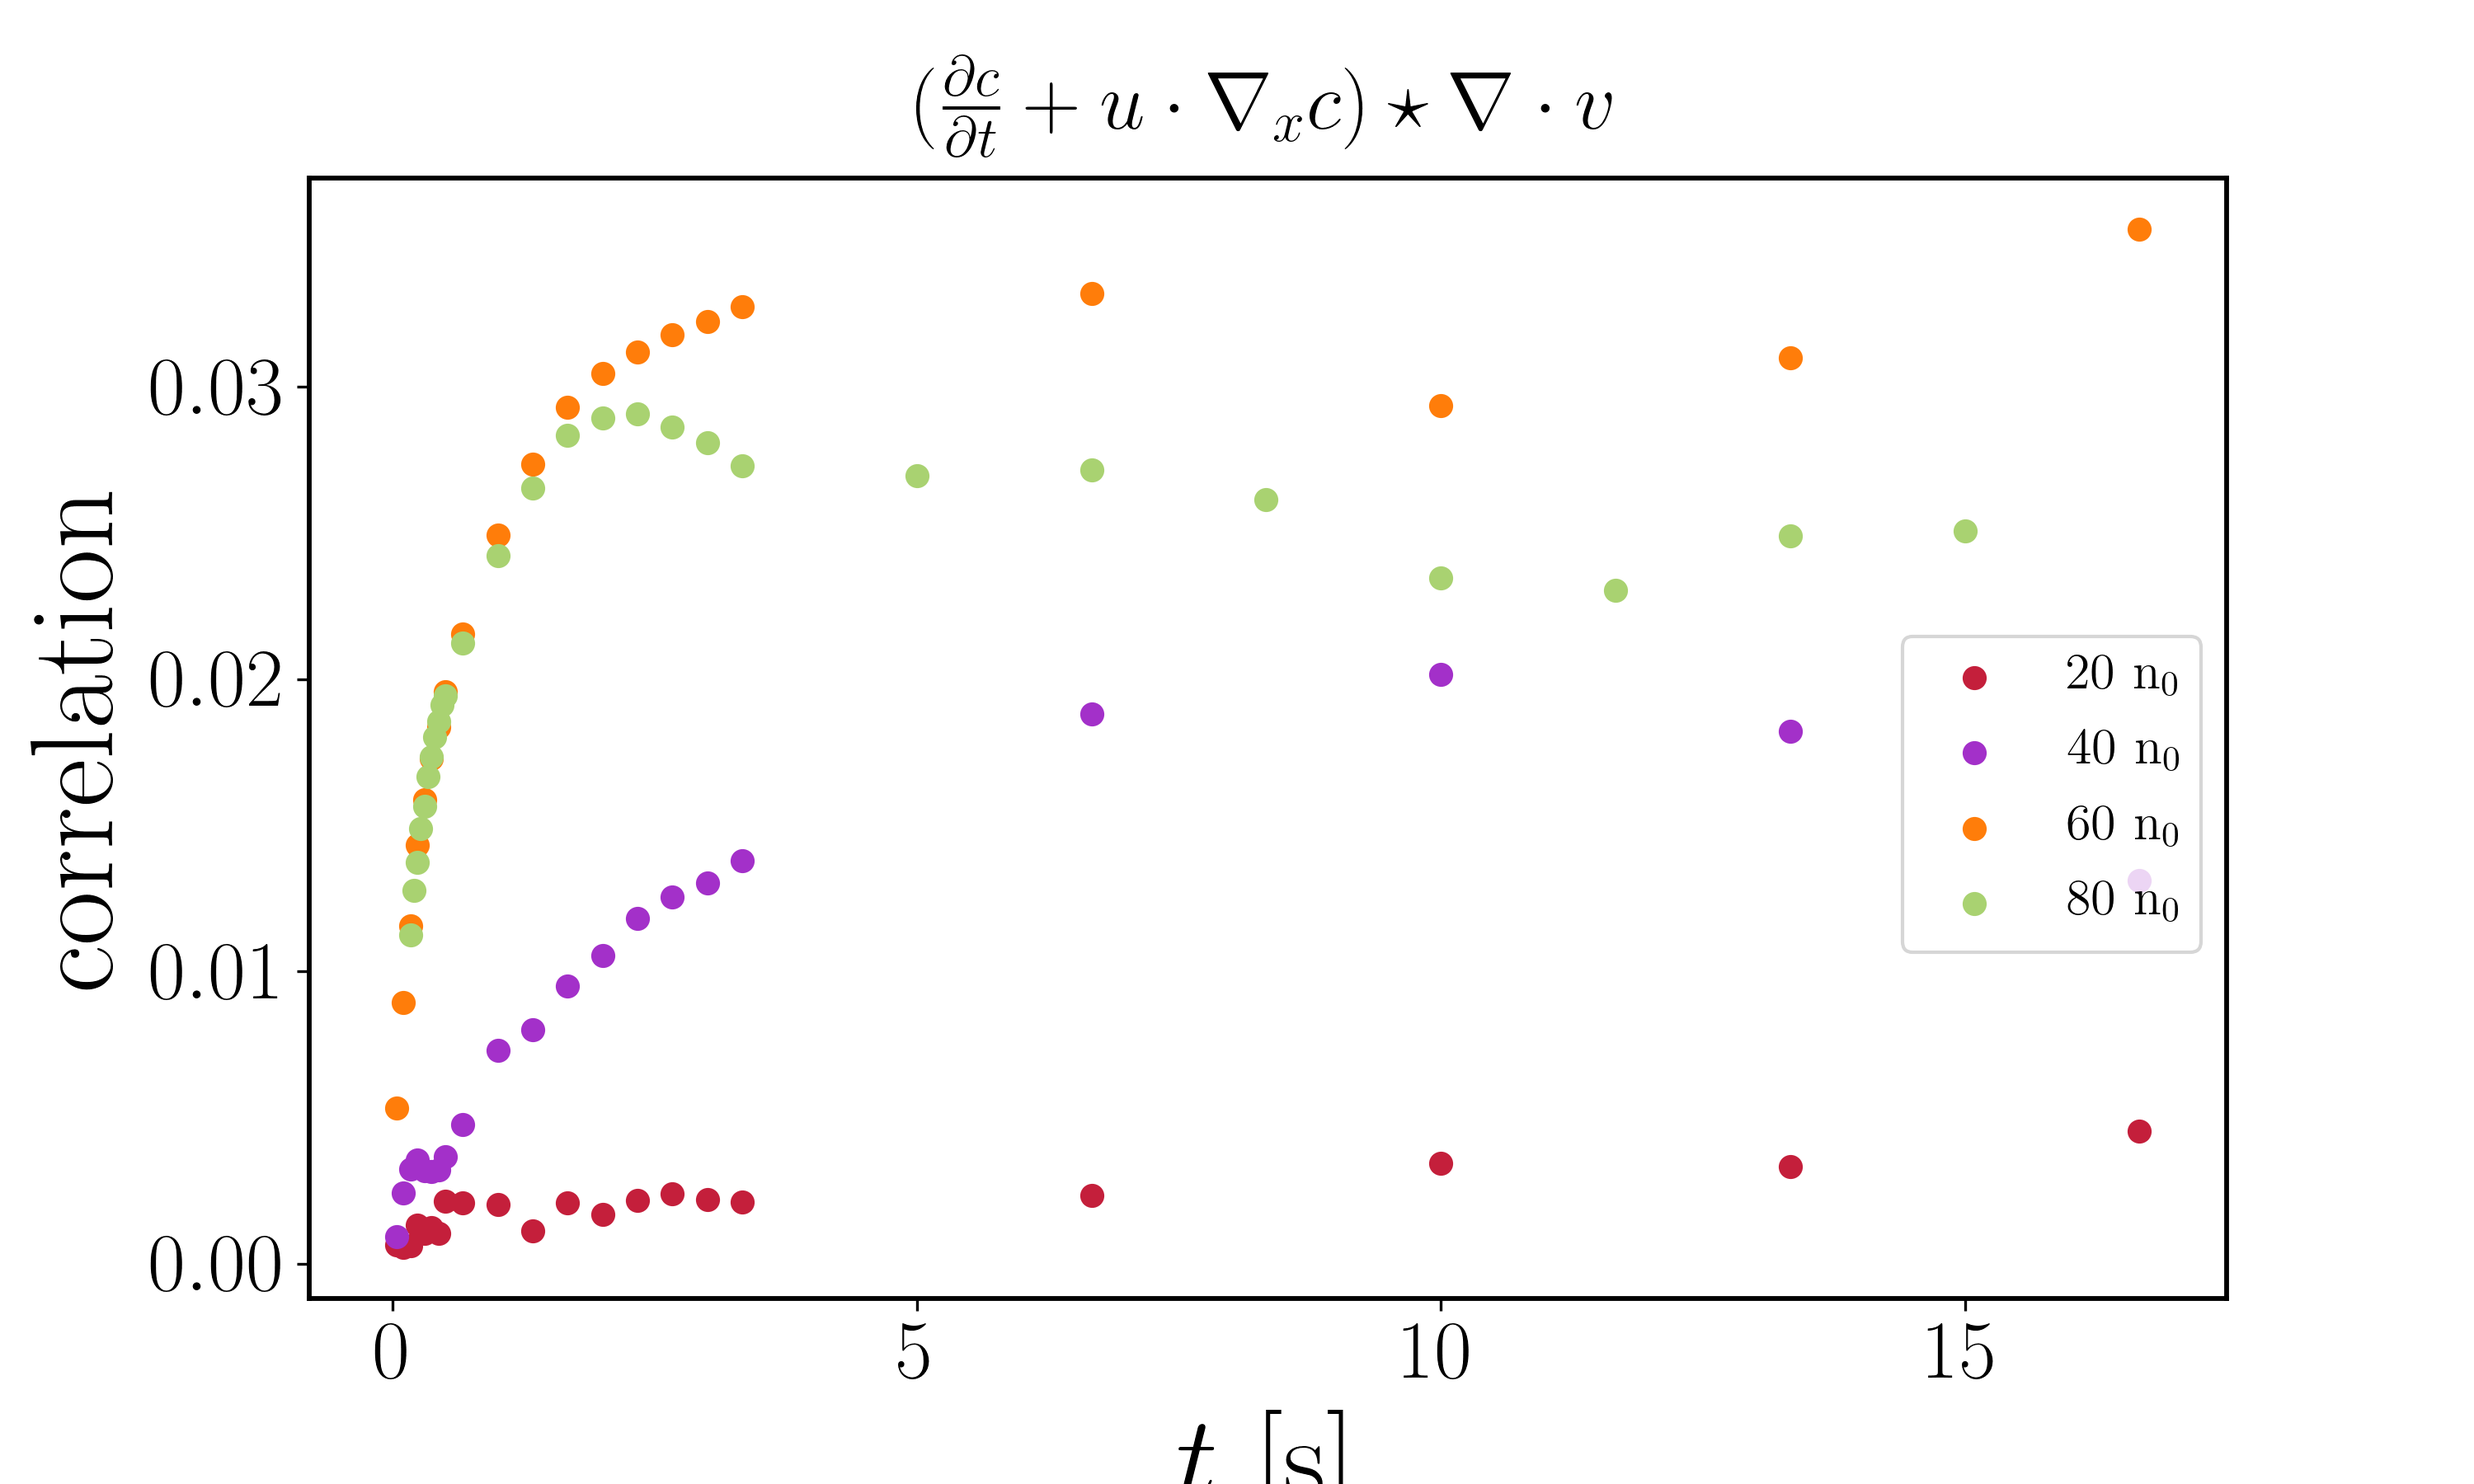
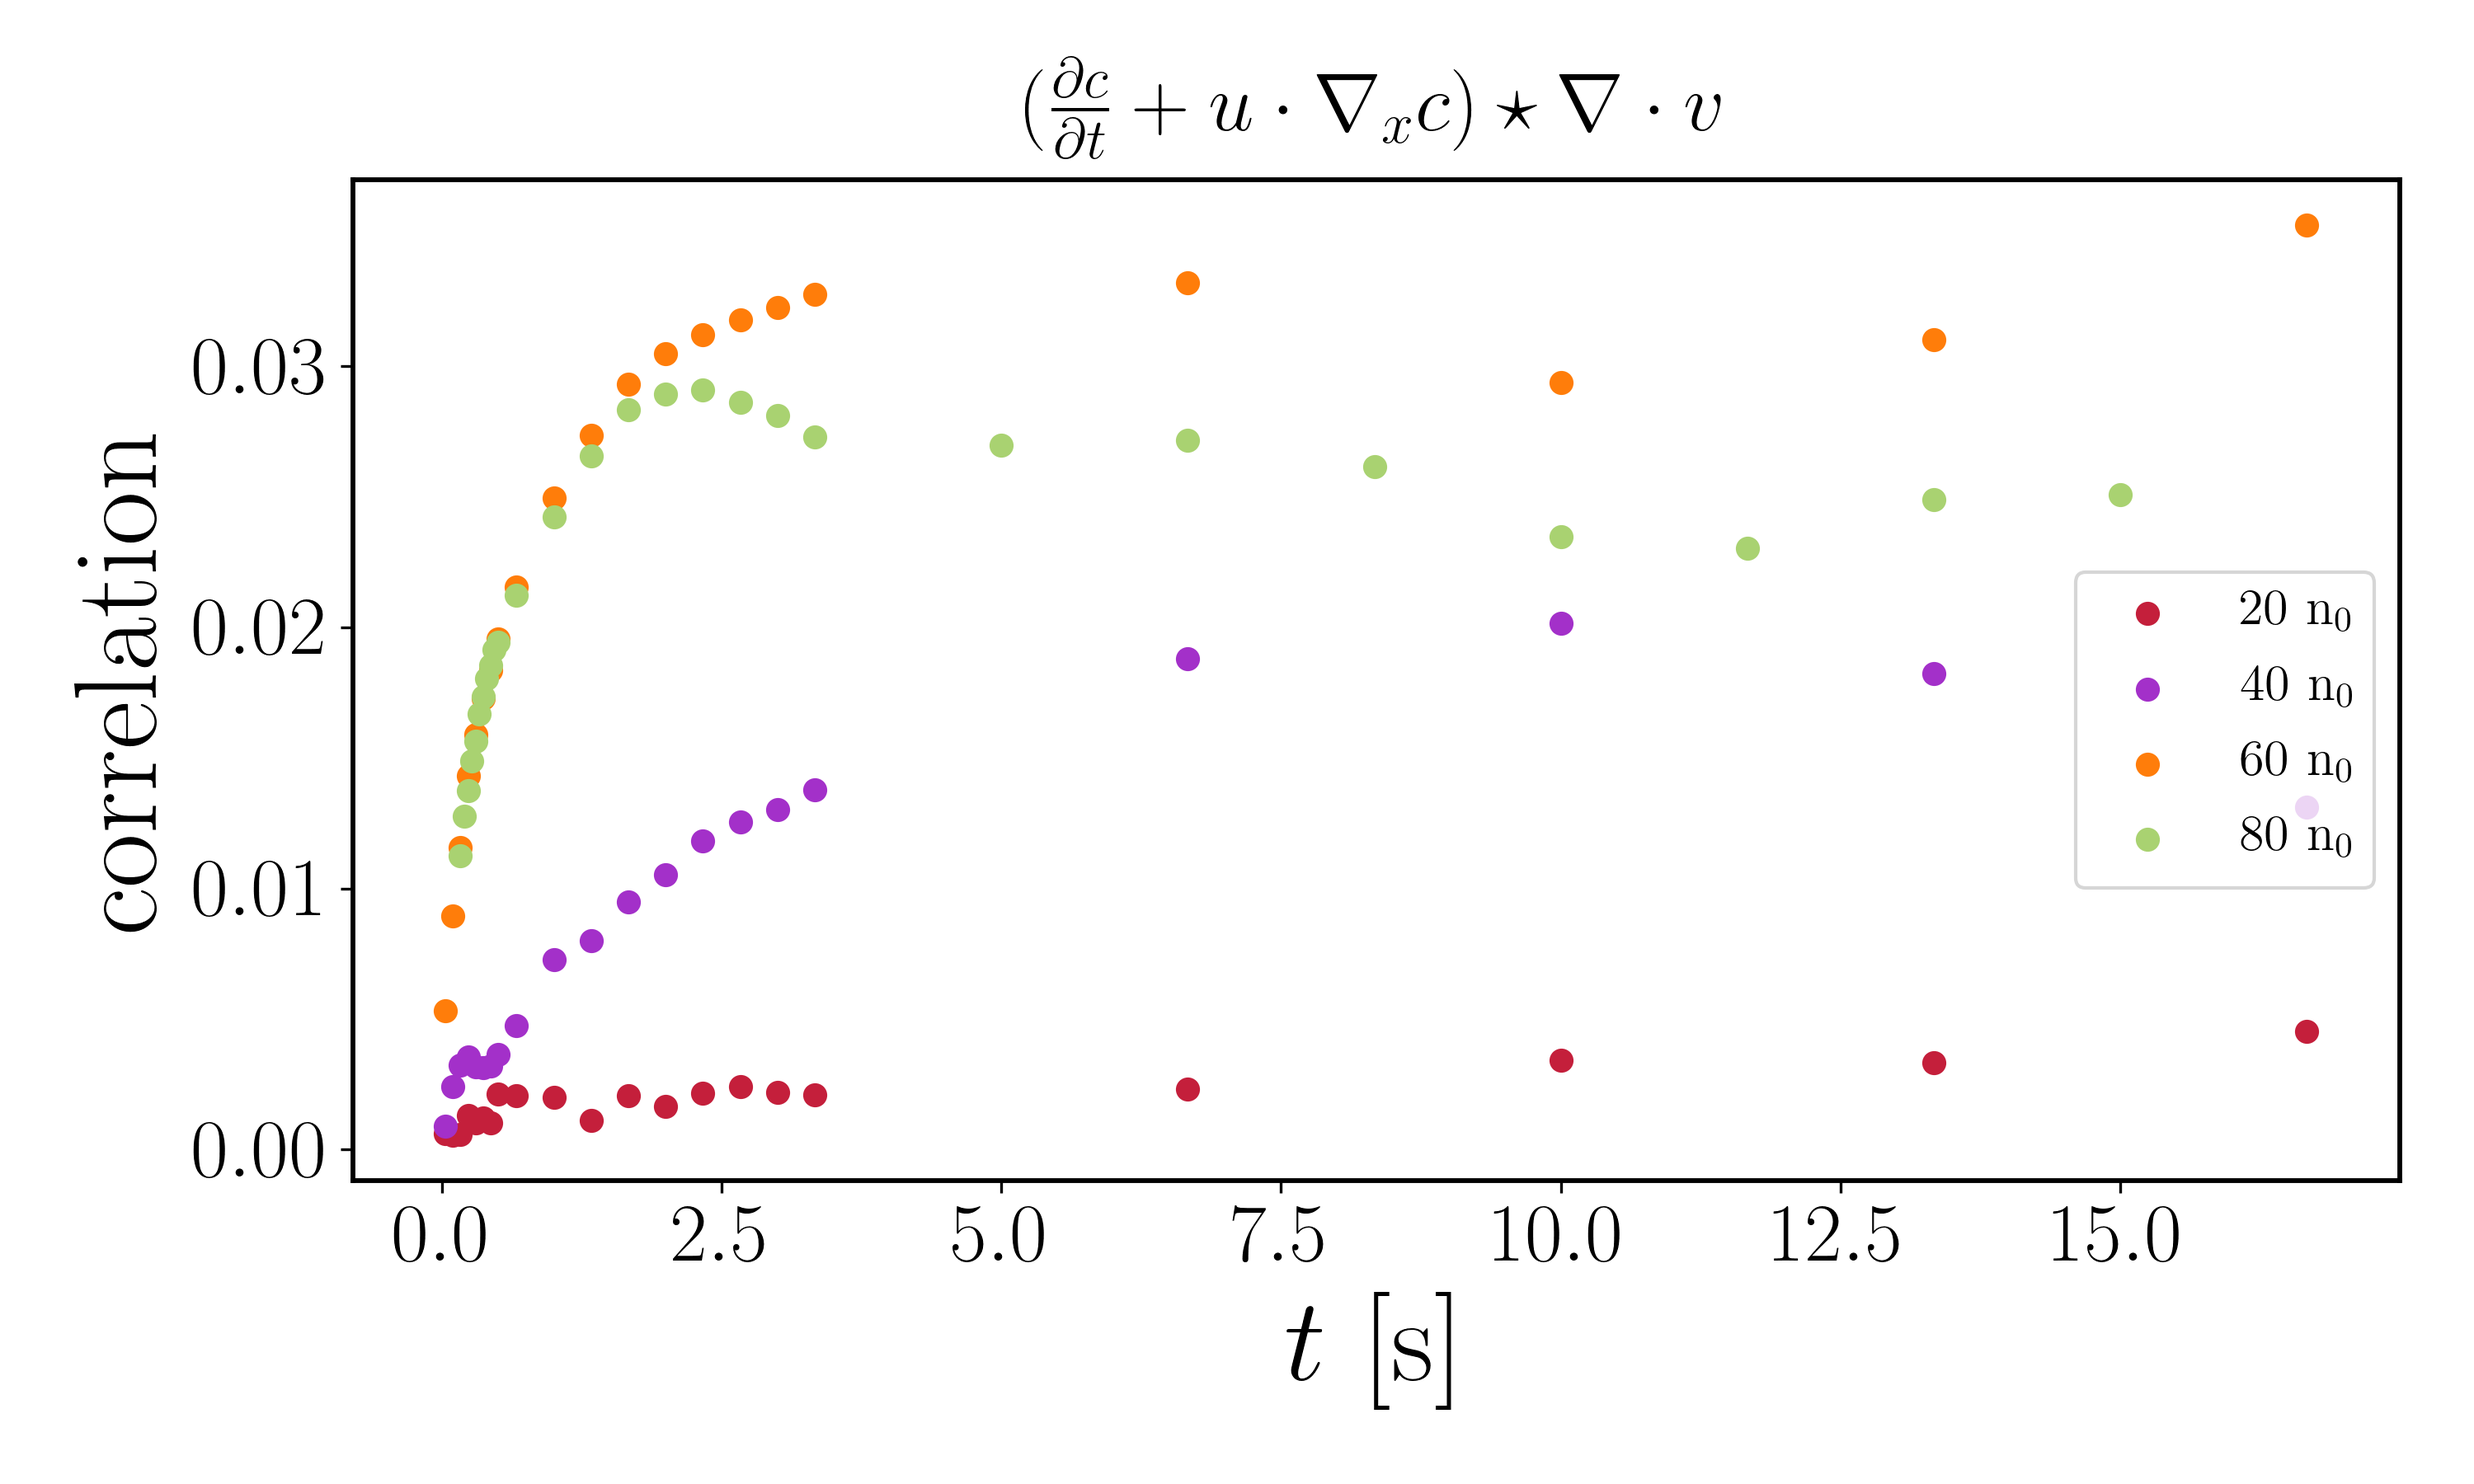
1

diff --git a/research/DF/blogs/include_advection.html b/research/DF/blogs/include_advection.html
@@ -80,9 +80,14 @@
 						$$ \boldsymbol{u}\cdot \nabla_xc \approx 2u_x \frac{c_{x+\Delta x}-c_x}{\Delta x} \approx 2 \times 0.5 \times \frac{0.8}{25} = 0.032 \mbox{ frame}^{-1}$$
 					<p> This result suggests that the two terms are on the same order of magnitude, and thus have similar contributions to the sum. Since the big batch calculation (10 to 990) ran into issues, here I switch to a smaller scale to test the code.
 					<div id='code-link'>
-						 Job file: 06092020/00.pbs
+						 Job file: 06222020/00.pbs 01.pbs
 					</div>
-					
+					<p> We vary \(\Delta t\) and look at its effect on the cross-correlations. </p>
+					<div id='figure'>
+						<img src='https://zloverty.github.io/research/DF/img/include_advection/dt/sample_2.png' width=90%><br>
+						<div id='figure-cap'> <b>Fig.2</b> Correlation between \(\frac{\partial c}{\partial t} + \boldsymbol{u}\cdot \nabla_xc\) and \(\nabla\cdot(c\boldsymbol{v})\)</div>
+					</div>
+
 		</div>
 	</div>
 
